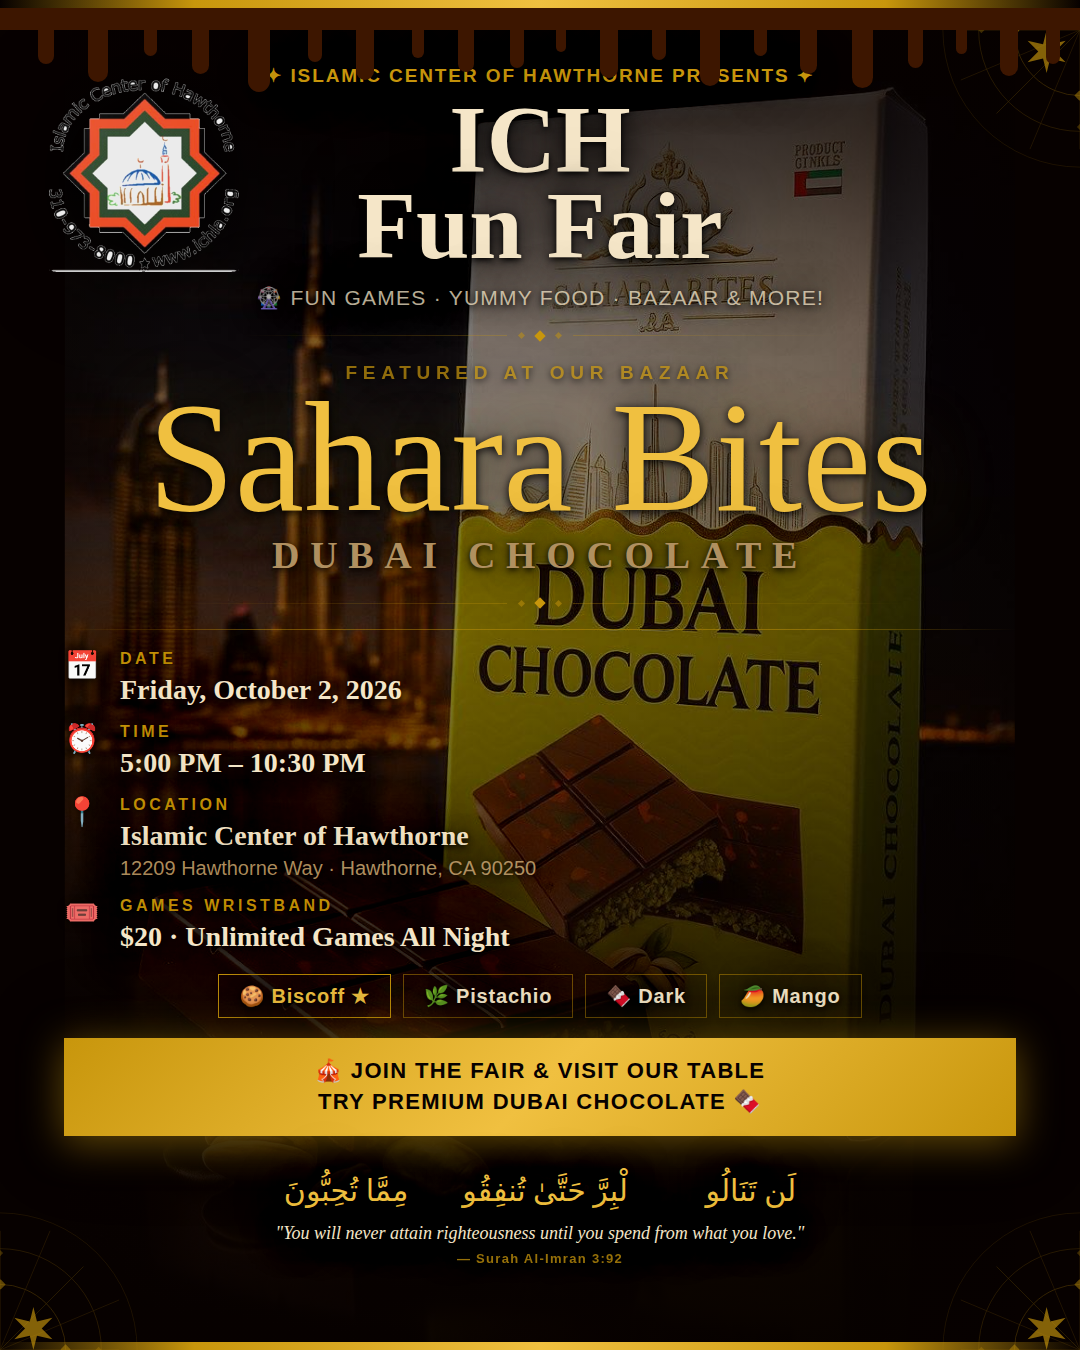
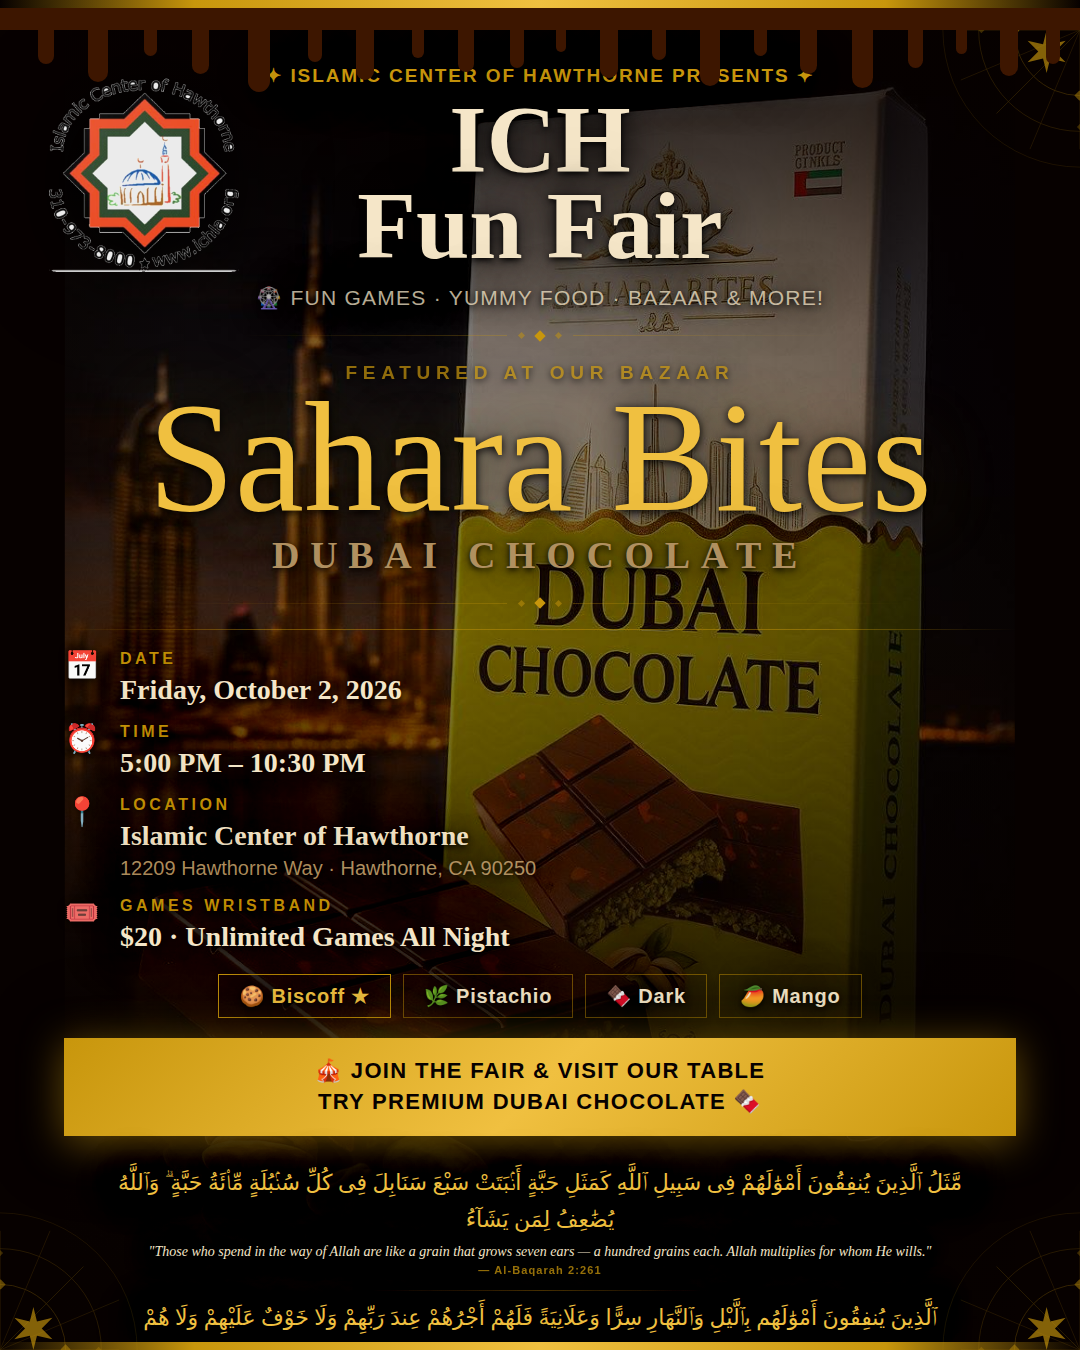
Swap verse to Al-Baqarah 2:261 and 2:274 (both giving ayahs)
Replaces Al-Imran 3:92 with both Al-Baqarah verses about spending
in Allah's way — the grain parable and the night/day spending ayah.

Claude-Session: https://claude.ai/code/session_01DH5GXKoXpYfiRFx82PrKph

Changed region(s): [[0.1222, 0.8711, 0.8861, 0.9956]]

diff --git a/sahara-bites-flyer-final.html b/sahara-bites-flyer-final.html
@@ -293,33 +293,39 @@ html,body {
 
 .spacer { flex:1; min-height:8px; }
 
-/* ─────────── QURAN VERSE ─────────── */
+/* ─────────── QURAN VERSES ─────────── */
 .verse-block {
   width:100%;
-  padding:10px 56px 0;
-  display:flex; flex-direction:column; align-items:center; gap:5px;
+  padding:8px 48px 0;
+  display:flex; flex-direction:column; align-items:center; gap:3px;
 }
 .verse-arabic {
   font-family:'Amiri',serif;
-  font-size:30px;
+  font-size:22px;
   color:var(--gold-hi);
   text-shadow:var(--ts);
   direction:rtl; text-align:center;
-  line-height:1.65;
+  line-height:1.7;
 }
 .verse-english {
   font-family:'Playfair Display',serif;
   font-style:italic;
-  font-size:18px;
+  font-size:14px;
   color:var(--cream);
   text-shadow:var(--ts);
-  text-align:center; line-height:1.45;
+  text-align:center; line-height:1.4;
 }
 .verse-ref {
-  font-size:13px; font-weight:700;
+  font-size:11px; font-weight:700;
   letter-spacing:.1em;
   color:var(--gold); opacity:.75;
   text-shadow:var(--ts);
+  margin-bottom:6px;
+}
+.verse-divider {
+  width:40%; height:1px;
+  background:linear-gradient(90deg,transparent,rgba(200,150,12,.4),transparent);
+  margin:5px 0;
 }
 </style>
 </head>
@@ -436,11 +442,15 @@ html,body {
 
       <!-- CTA -->
       <div class="cta-bar">🎪 Join the Fair &amp; Visit Our Table<br>Try Premium Dubai Chocolate 🍫</div>
-      <!-- QURAN VERSE -->
+      <!-- QURAN VERSES — Al-Baqarah -->
       <div class="verse-block">
-        <div class="verse-arabic">لَن تَنَالُوا۟ ٱلْبِرَّ حَتَّىٰ تُنفِقُوا۟ مِمَّا تُحِبُّونَ</div>
-        <div class="verse-english">"You will never attain righteousness until you spend from what you love."</div>
-        <div class="verse-ref">— Surah Al-Imran 3:92</div>
+        <div class="verse-arabic">مَّثَلُ ٱلَّذِينَ يُنفِقُونَ أَمْوَٰلَهُمْ فِى سَبِيلِ ٱللَّهِ كَمَثَلِ حَبَّةٍ أَنۢبَتَتْ سَبْعَ سَنَابِلَ فِى كُلِّ سُنۢبُلَةٍ مِّا۟ئَةُ حَبَّةٍ ۗ وَٱللَّهُ يُضَٰعِفُ لِمَن يَشَآءُ</div>
+        <div class="verse-english">"Those who spend in the way of Allah are like a grain that grows seven ears — a hundred grains each. Allah multiplies for whom He wills."</div>
+        <div class="verse-ref">— Al-Baqarah 2:261</div>
+        <div class="verse-divider"></div>
+        <div class="verse-arabic">ٱلَّذِينَ يُنفِقُونَ أَمْوَٰلَهُم بِٱلَّيْلِ وَٱلنَّهَارِ سِرًّا وَعَلَانِيَةً فَلَهُمْ أَجْرُهُمْ عِندَ رَبِّهِمْ وَلَا خَوْفٌ عَلَيْهِمْ وَلَا هُمْ يَحْزَنُونَ</div>
+        <div class="verse-english">"Those who spend by night and day, secretly and openly — their reward is with their Lord, and no fear will there be, nor will they grieve."</div>
+        <div class="verse-ref">— Al-Baqarah 2:274</div>
       </div>
   </div>
 
